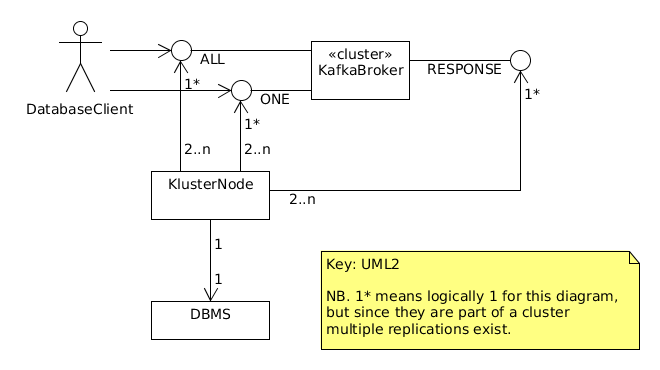
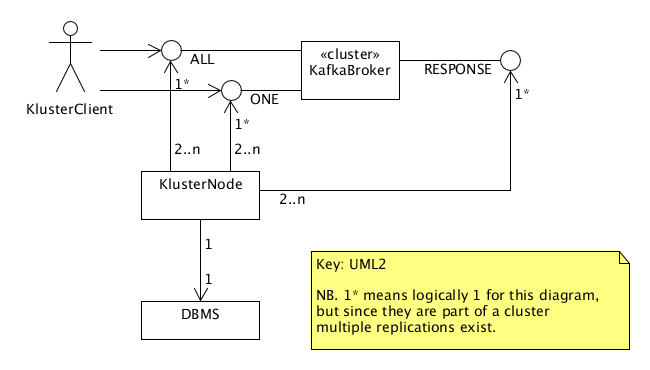
updated design conform code

diff --git a/kafka-pg-adapter/kafka-postgres-adapter.go b/kafka-pg-adapter/kafka-postgres-adapter.go
@@ -16,7 +16,7 @@ import (
 
 func main() {
 	log.Println("Starting Kafka -> Postgres adapter, waiting 10 seconds for kafka and postgres to init")
-	time.Sleep(10 * time.Second)
+	time.Sleep(30 * time.Second)
 	pgConnectionString := mustHaveEnvironment("DATABASE_ADDRESS")
 	kafkaBootstrapServers := mustHaveEnvironment("KAFKA_BOOTSTRAP_SERVERS")
 	kafkaMutationTopic := mustHaveEnvironment("KAFKA_MUTATION_TOPIC")

diff --git a/README.md b/README.md
@@ -3,8 +3,9 @@
 Cluster of N SQL-DBMS instances kept in sync using Kafka __consistently__. So no need for eventual-consisteny! The price for
 the consistenty is asynchronicity.
 
-You can use any type of DBMS (PostgreSQL, Oracle, MariaDB, etc.). In fact you can even mix them in the same cluster:
-some nodes are PostgreSQL, some are Oracle, etc.
+You can use any type of DBMS (PostgreSQL, Oracle, MariaDB, etc.). In fact one could even mix them in the same cluster, provided they speak the same SQL dialect:
+some nodes are PostgreSQL, some are Oracle, etc. If they dont speak the same SQL dialect the database adapters should do some translations.
+However, for now mixing database types is not supported. 
 
 Traditionally DBMSes support clustering each in their own way. They use master-slave nodes, active-active or active-passive modes, etc.
 All these approaches are different for each DBMS vendor. Kluster provides a way to cluster a set of DBMS nodes of in a
@@ -90,15 +91,6 @@ messageId: unique message id, generated by node that handled the request, eg. a 
 referenceId: the messageId of the corresponding request
 result: JSON string containing the result of the operartion, in case of a query quite large for contains the entire result set
 ```
-
-qqqq HTODO CH to make it conform Componets diagram above: 
-- rename kluster-pg-adapter/ to kluster-db-adapters/
-- rename kafka-postgres-adapter to postgres-adapter
-- rename kluster-client-golang/ to kluster-node/
-- rename client.go to kafka-client.go
-- move kafka-client.go to kluster-node
-- rename kluster-client-golang to kluster-node/
-- main method in kluster-node.go 
 
 ## Quickstart
 
